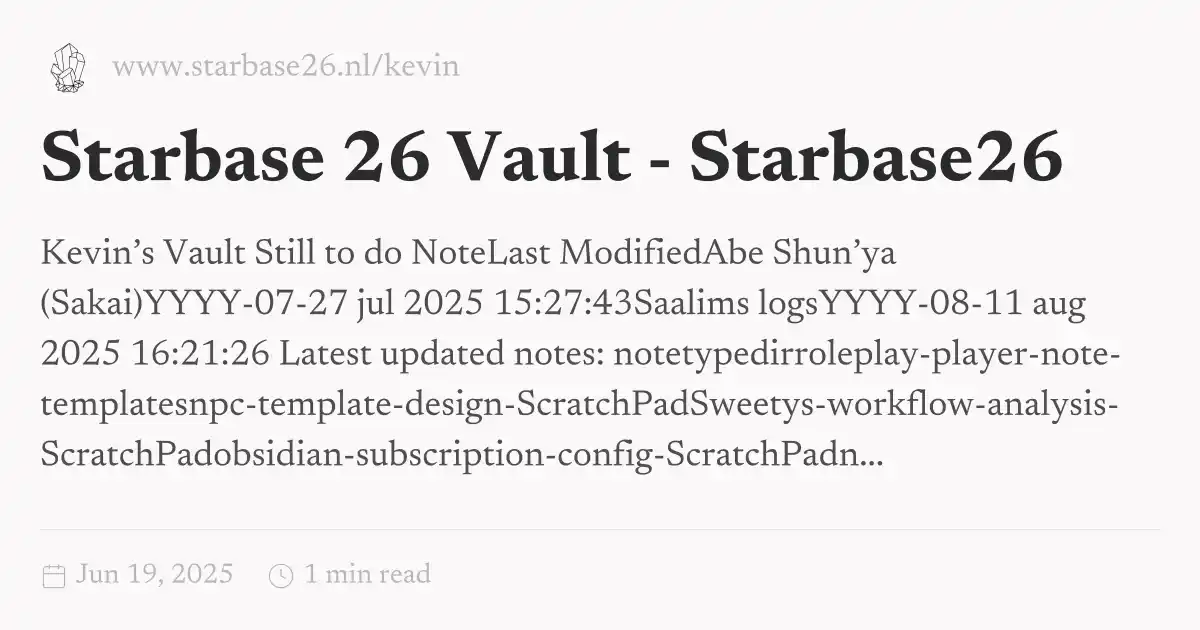
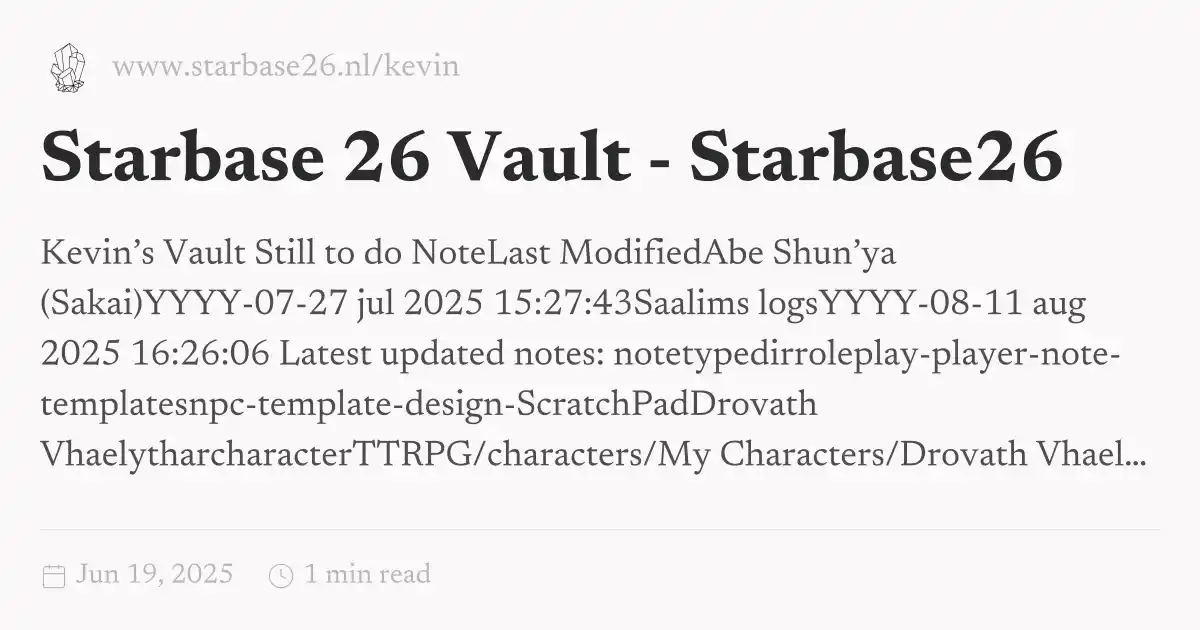
Quartz sync: Aug 11, 2025, 4:30 PM

Changed region(s): [[0.0308, 0.6937, 0.9558, 0.754], [0.555, 0.6032, 0.925, 0.6635], [0.1542, 0.5429, 0.2158, 0.573]]

diff --git a/public/ScratchPad/Sweetys-workflow-analysis.html b/public/ScratchPad/Sweetys-workflow-analysis.html
@@ -177,22 +177,12 @@ Lkajsdkljflkjaslkajsdf. Lkajsldkjflkjasdf</p>
 </ol>
 <p>Checkboxlijstjes:</p>
 <ul class="contains-task-list">
-<li class="task-list-item">
-<p><input type="checkbox" disabled/> Optie 1</p>
-</li>
-<li class="task-list-item">
-<p><input type="checkbox" disabled/> Optie 2</p>
-</li>
-<li class="task-list-item">
-<p><input type="checkbox" checked disabled/> Optie 3</p>
-</li>
-<li>
-<p>[ ]</p>
-</li>
-<li>
-<p>[ ]</p>
-</li>
-</ul></article><hr/><div class="page-footer"></div></div><div class="right sidebar"><div class="graph"><h3>Graph View</h3><div class="graph-outer"><div class="graph-container" data-cfg="{&quot;drag&quot;:true,&quot;zoom&quot;:true,&quot;depth&quot;:1,&quot;scale&quot;:1.1,&quot;repelForce&quot;:0.5,&quot;centerForce&quot;:0.3,&quot;linkDistance&quot;:30,&quot;fontSize&quot;:0.6,&quot;opacityScale&quot;:1,&quot;showTags&quot;:true,&quot;removeTags&quot;:[],&quot;focusOnHover&quot;:false,&quot;enableRadial&quot;:false}"></div><button class="global-graph-icon" aria-label="Global Graph"><svg version="1.1" xmlns="http://www.w3.org/2000/svg" xmlns:xlink="http://www.w3.org/1999/xlink" x="0px" y="0px" viewBox="0 0 55 55" fill="currentColor" xml:space="preserve"><path d="M49,0c-3.309,0-6,2.691-6,6c0,1.035,0.263,2.009,0.726,2.86l-9.829,9.829C32.542,17.634,30.846,17,29,17
+<li class="task-list-item"><input type="checkbox" disabled/> Optie 1</li>
+<li class="task-list-item"><input type="checkbox" checked disabled/> Optie 2</li>
+<li class="task-list-item"><input type="checkbox" checked disabled/> Optie 3</li>
+</ul>
+<p>Ik ben <strong>vet</strong> gedrukt</p>
+<p>Ik ben een quote</p></article><hr/><div class="page-footer"></div></div><div class="right sidebar"><div class="graph"><h3>Graph View</h3><div class="graph-outer"><div class="graph-container" data-cfg="{&quot;drag&quot;:true,&quot;zoom&quot;:true,&quot;depth&quot;:1,&quot;scale&quot;:1.1,&quot;repelForce&quot;:0.5,&quot;centerForce&quot;:0.3,&quot;linkDistance&quot;:30,&quot;fontSize&quot;:0.6,&quot;opacityScale&quot;:1,&quot;showTags&quot;:true,&quot;removeTags&quot;:[],&quot;focusOnHover&quot;:false,&quot;enableRadial&quot;:false}"></div><button class="global-graph-icon" aria-label="Global Graph"><svg version="1.1" xmlns="http://www.w3.org/2000/svg" xmlns:xlink="http://www.w3.org/1999/xlink" x="0px" y="0px" viewBox="0 0 55 55" fill="currentColor" xml:space="preserve"><path d="M49,0c-3.309,0-6,2.691-6,6c0,1.035,0.263,2.009,0.726,2.86l-9.829,9.829C32.542,17.634,30.846,17,29,17
                 s-3.542,0.634-4.898,1.688l-7.669-7.669C16.785,10.424,17,9.74,17,9c0-2.206-1.794-4-4-4S9,6.794,9,9s1.794,4,4,4
                 c0.74,0,1.424-0.215,2.019-0.567l7.669,7.669C21.634,21.458,21,23.154,21,25s0.634,3.542,1.688,4.897L10.024,42.562
                 C8.958,41.595,7.549,41,6,41c-3.309,0-6,2.691-6,6s2.691,6,6,6s6-2.691,6-6c0-1.035-0.263-2.009-0.726-2.86l12.829-12.829

diff --git a/public/index.html b/public/index.html
@@ -1,5 +1,5 @@
 <!DOCTYPE html>
-<html lang="en"><head><title>Starbase 26 Vault - Starbase26</title><meta charset="utf-8"/><link rel="preconnect" href="https://fonts.googleapis.com"/><link rel="preconnect" href="https://fonts.gstatic.com"/><link rel="stylesheet" href="https://fonts.googleapis.com/css2?family=Newsreader:wght@400;700&amp;family=Newsreader:ital,wght@0,400;0,600;1,400;1,600&amp;family=Anonymous Pro:wght@400;600&amp;display=swap"/><link rel="preconnect" href="https://cdnjs.cloudflare.com" crossorigin="anonymous"/><meta name="viewport" content="width=device-width, initial-scale=1.0"/><meta name="og:site_name" content="The Vault"/><meta property="og:title" content="Starbase 26 Vault - Starbase26"/><meta property="og:type" content="website"/><meta name="twitter:card" content="summary_large_image"/><meta name="twitter:title" content="Starbase 26 Vault - Starbase26"/><meta name="twitter:description" content="Kevin’s Vault Still to do NoteLast ModifiedAbe Shun’ya (Sakai)YYYY-07-27 jul 2025 15:27:43Saalims logsYYYY-08-11 aug 2025 16:21:26 Latest updated notes: notetypedirroleplay-player-note-templatesnpc-template-design-ScratchPadSweetys-workflow-analysis-ScratchPadobsidian-subscription-config-ScratchPadn..."/><meta property="og:description" content="Kevin’s Vault Still to do NoteLast ModifiedAbe Shun’ya (Sakai)YYYY-07-27 jul 2025 15:27:43Saalims logsYYYY-08-11 aug 2025 16:21:26 Latest updated notes: notetypedirroleplay-player-note-templatesnpc-template-design-ScratchPadSweetys-workflow-analysis-ScratchPadobsidian-subscription-config-ScratchPadn..."/><meta property="og:image:alt" content="Kevin’s Vault Still to do NoteLast ModifiedAbe Shun’ya (Sakai)YYYY-07-27 jul 2025 15:27:43Saalims logsYYYY-08-11 aug 2025 16:21:26 Latest updated notes: notetypedirroleplay-player-note-templatesnpc-template-design-ScratchPadSweetys-workflow-analysis-ScratchPadobsidian-subscription-config-ScratchPadn..."/><meta property="twitter:domain" content="www.starbase26.nl/kevin"/><meta property="og:url" content="https://www.starbase26.nl/kevin/index"/><meta property="twitter:url" content="https://www.starbase26.nl/kevin/index"/><link rel="icon" href="./static/icon.png"/><meta name="description" content="Kevin’s Vault Still to do NoteLast ModifiedAbe Shun’ya (Sakai)YYYY-07-27 jul 2025 15:27:43Saalims logsYYYY-08-11 aug 2025 16:21:26 Latest updated notes: notetypedirroleplay-player-note-templatesnpc-template-design-ScratchPadSweetys-workflow-analysis-ScratchPadobsidian-subscription-config-ScratchPadn..."/><meta name="generator" content="Quartz"/><link href="./index.css" rel="stylesheet" type="text/css" spa-preserve/><style>.expand-button {
+<html lang="en"><head><title>Starbase 26 Vault - Starbase26</title><meta charset="utf-8"/><link rel="preconnect" href="https://fonts.googleapis.com"/><link rel="preconnect" href="https://fonts.gstatic.com"/><link rel="stylesheet" href="https://fonts.googleapis.com/css2?family=Newsreader:wght@400;700&amp;family=Newsreader:ital,wght@0,400;0,600;1,400;1,600&amp;family=Anonymous Pro:wght@400;600&amp;display=swap"/><link rel="preconnect" href="https://cdnjs.cloudflare.com" crossorigin="anonymous"/><meta name="viewport" content="width=device-width, initial-scale=1.0"/><meta name="og:site_name" content="The Vault"/><meta property="og:title" content="Starbase 26 Vault - Starbase26"/><meta property="og:type" content="website"/><meta name="twitter:card" content="summary_large_image"/><meta name="twitter:title" content="Starbase 26 Vault - Starbase26"/><meta name="twitter:description" content="Kevin’s Vault Still to do NoteLast ModifiedAbe Shun’ya (Sakai)YYYY-07-27 jul 2025 15:27:43Saalims logsYYYY-08-11 aug 2025 16:26:06 Latest updated notes: notetypedirroleplay-player-note-templatesnpc-template-design-ScratchPadDrovath VhaelytharcharacterTTRPG/characters/My Characters/Drovath Vhaelythar..."/><meta property="og:description" content="Kevin’s Vault Still to do NoteLast ModifiedAbe Shun’ya (Sakai)YYYY-07-27 jul 2025 15:27:43Saalims logsYYYY-08-11 aug 2025 16:26:06 Latest updated notes: notetypedirroleplay-player-note-templatesnpc-template-design-ScratchPadDrovath VhaelytharcharacterTTRPG/characters/My Characters/Drovath Vhaelythar..."/><meta property="og:image:alt" content="Kevin’s Vault Still to do NoteLast ModifiedAbe Shun’ya (Sakai)YYYY-07-27 jul 2025 15:27:43Saalims logsYYYY-08-11 aug 2025 16:26:06 Latest updated notes: notetypedirroleplay-player-note-templatesnpc-template-design-ScratchPadDrovath VhaelytharcharacterTTRPG/characters/My Characters/Drovath Vhaelythar..."/><meta property="twitter:domain" content="www.starbase26.nl/kevin"/><meta property="og:url" content="https://www.starbase26.nl/kevin/index"/><meta property="twitter:url" content="https://www.starbase26.nl/kevin/index"/><link rel="icon" href="./static/icon.png"/><meta name="description" content="Kevin’s Vault Still to do NoteLast ModifiedAbe Shun’ya (Sakai)YYYY-07-27 jul 2025 15:27:43Saalims logsYYYY-08-11 aug 2025 16:26:06 Latest updated notes: notetypedirroleplay-player-note-templatesnpc-template-design-ScratchPadDrovath VhaelytharcharacterTTRPG/characters/My Characters/Drovath Vhaelythar..."/><meta name="generator" content="Quartz"/><link href="./index.css" rel="stylesheet" type="text/css" spa-preserve/><style>.expand-button {
   position: absolute;
   display: flex;
   float: right;
@@ -137,7 +137,7 @@ pre:hover > .expand-button {
 
 
 
-<div class="table-container"><table><thead><tr><th>Note</th><th>Last Modified</th></tr></thead><tbody><tr><td><a href="./TTRPG/characters/My-Characters/Abe-Shun'ya/Abe-Shun'ya-(Sakai)" class="internal alias" data-slug="TTRPG/characters/My-Characters/Abe-Shun'ya/Abe-Shun'ya-(Sakai)">Abe Shun’ya (Sakai)</a></td><td>YYYY-07-27 jul 2025 15:27:43</td></tr><tr><td><a href="./TTRPG/characters/My-Characters/Saalim-abu-Razin/Saalims-logs" class="internal alias" data-slug="TTRPG/characters/My-Characters/Saalim-abu-Razin/Saalims-logs">Saalims logs</a></td><td>YYYY-08-11 aug 2025 16:21:26</td></tr></tbody></table></div>
+<div class="table-container"><table><thead><tr><th>Note</th><th>Last Modified</th></tr></thead><tbody><tr><td><a href="./TTRPG/characters/My-Characters/Abe-Shun'ya/Abe-Shun'ya-(Sakai)" class="internal alias" data-slug="TTRPG/characters/My-Characters/Abe-Shun'ya/Abe-Shun'ya-(Sakai)">Abe Shun’ya (Sakai)</a></td><td>YYYY-07-27 jul 2025 15:27:43</td></tr><tr><td><a href="./TTRPG/characters/My-Characters/Saalim-abu-Razin/Saalims-logs" class="internal alias" data-slug="TTRPG/characters/My-Characters/Saalim-abu-Razin/Saalims-logs">Saalims logs</a></td><td>YYYY-08-11 aug 2025 16:26:06</td></tr></tbody></table></div>
 
 <hr/>
 <h2 id="latest-updated-notes">Latest updated notes:<a role="anchor" aria-hidden="true" tabindex="-1" data-no-popover="true" href="#latest-updated-notes" class="internal"><svg width="18" height="18" viewBox="0 0 24 24" fill="none" stroke="currentColor" stroke-width="2" stroke-linecap="round" stroke-linejoin="round"><path d="M10 13a5 5 0 0 0 7.54.54l3-3a5 5 0 0 0-7.07-7.07l-1.72 1.71"></path><path d="M14 11a5 5 0 0 0-7.54-.54l-3 3a5 5 0 0 0 7.07 7.07l1.71-1.71"></path></svg></a></h2>
@@ -203,7 +203,7 @@ pre:hover > .expand-button {
 
 
 
-<div class="table-container"><table><thead><tr><th>note</th><th>type</th><th>dir</th></tr></thead><tbody><tr><td><a href="./roleplay-player-note" class="internal" data-slug="roleplay-player-note">roleplay-player-note</a></td><td>-</td><td>templates</td></tr><tr><td><a href="./ScratchPad/npc-template-design" class="internal" data-slug="ScratchPad/npc-template-design">npc-template-design</a></td><td>-</td><td>ScratchPad</td></tr><tr><td><a href="./ScratchPad/Sweetys-workflow-analysis" class="internal" data-slug="ScratchPad/Sweetys-workflow-analysis">Sweetys-workflow-analysis</a></td><td>-</td><td>ScratchPad</td></tr><tr><td><a href="./ScratchPad/obsidian-subscription-config" class="internal" data-slug="ScratchPad/obsidian-subscription-config">obsidian-subscription-config</a></td><td>-</td><td>ScratchPad</td></tr><tr><td><a href="./Personal/netwerk/netwerk-beleid" class="internal" data-slug="Personal/netwerk/netwerk-beleid">netwerk-beleid</a></td><td>-</td><td>Personal/netwerk</td></tr><tr><td><a href="./TTRPG/characters/My-Characters/Drovath-Vhaelythar/Drovath-Vhaelythar" class="internal alias" data-slug="TTRPG/characters/My-Characters/Drovath-Vhaelythar/Drovath-Vhaelythar">Drovath Vhaelythar</a></td><td>character</td><td>TTRPG/characters/My Characters/Drovath Vhaelythar</td></tr><tr><td><a href="./TTRPG/characters/My-Characters/Drovath-Vhaelythar/charsheet-drovath-vhaelythar" class="internal" data-slug="TTRPG/characters/My-Characters/Drovath-Vhaelythar/charsheet-drovath-vhaelythar">charsheet-drovath-vhaelythar</a></td><td>chararacter sheet notes</td><td>TTRPG/characters/My Characters/Drovath Vhaelythar</td></tr><tr><td><a href="./TTRPG/rpg-todo-list" class="internal" data-slug="TTRPG/rpg-todo-list">rpg-todo-list</a></td><td>-</td><td>TTRPG</td></tr><tr><td><a href="./TTRPG/worlds/kurvalyn/Kurvalyn" class="internal" data-slug="TTRPG/worlds/kurvalyn/Kurvalyn">Kurvalyn</a></td><td>world</td><td>TTRPG/worlds/kurvalyn</td></tr><tr><td><a href="./roleplay-new-country" class="internal" data-slug="roleplay-new-country">roleplay-new-country</a></td><td>world</td><td>templates</td></tr></tbody></table></div>
+<div class="table-container"><table><thead><tr><th>note</th><th>type</th><th>dir</th></tr></thead><tbody><tr><td><a href="./roleplay-player-note" class="internal" data-slug="roleplay-player-note">roleplay-player-note</a></td><td>-</td><td>templates</td></tr><tr><td><a href="./ScratchPad/npc-template-design" class="internal" data-slug="ScratchPad/npc-template-design">npc-template-design</a></td><td>-</td><td>ScratchPad</td></tr><tr><td><a href="./TTRPG/characters/My-Characters/Drovath-Vhaelythar/Drovath-Vhaelythar" class="internal alias" data-slug="TTRPG/characters/My-Characters/Drovath-Vhaelythar/Drovath-Vhaelythar">Drovath Vhaelythar</a></td><td>character</td><td>TTRPG/characters/My Characters/Drovath Vhaelythar</td></tr><tr><td><a href="./ScratchPad/Sweetys-workflow-analysis" class="internal" data-slug="ScratchPad/Sweetys-workflow-analysis">Sweetys-workflow-analysis</a></td><td>-</td><td>ScratchPad</td></tr><tr><td><a href="./ScratchPad/obsidian-subscription-config" class="internal" data-slug="ScratchPad/obsidian-subscription-config">obsidian-subscription-config</a></td><td>-</td><td>ScratchPad</td></tr><tr><td><a href="./Personal/netwerk/netwerk-beleid" class="internal" data-slug="Personal/netwerk/netwerk-beleid">netwerk-beleid</a></td><td>-</td><td>Personal/netwerk</td></tr><tr><td><a href="./TTRPG/characters/My-Characters/Drovath-Vhaelythar/charsheet-drovath-vhaelythar" class="internal" data-slug="TTRPG/characters/My-Characters/Drovath-Vhaelythar/charsheet-drovath-vhaelythar">charsheet-drovath-vhaelythar</a></td><td>chararacter sheet notes</td><td>TTRPG/characters/My Characters/Drovath Vhaelythar</td></tr><tr><td><a href="./TTRPG/rpg-todo-list" class="internal" data-slug="TTRPG/rpg-todo-list">rpg-todo-list</a></td><td>-</td><td>TTRPG</td></tr><tr><td><a href="./TTRPG/worlds/kurvalyn/Kurvalyn" class="internal" data-slug="TTRPG/worlds/kurvalyn/Kurvalyn">Kurvalyn</a></td><td>world</td><td>TTRPG/worlds/kurvalyn</td></tr><tr><td><a href="./roleplay-new-country" class="internal" data-slug="roleplay-new-country">roleplay-new-country</a></td><td>world</td><td>templates</td></tr></tbody></table></div>
 </article><hr/><div class="page-footer"></div></div><div class="right sidebar"><div class="graph"><h3>Graph View</h3><div class="graph-outer"><div class="graph-container" data-cfg="{&quot;drag&quot;:true,&quot;zoom&quot;:true,&quot;depth&quot;:1,&quot;scale&quot;:1.1,&quot;repelForce&quot;:0.5,&quot;centerForce&quot;:0.3,&quot;linkDistance&quot;:30,&quot;fontSize&quot;:0.6,&quot;opacityScale&quot;:1,&quot;showTags&quot;:true,&quot;removeTags&quot;:[],&quot;focusOnHover&quot;:false,&quot;enableRadial&quot;:false}"></div><button class="global-graph-icon" aria-label="Global Graph"><svg version="1.1" xmlns="http://www.w3.org/2000/svg" xmlns:xlink="http://www.w3.org/1999/xlink" x="0px" y="0px" viewBox="0 0 55 55" fill="currentColor" xml:space="preserve"><path d="M49,0c-3.309,0-6,2.691-6,6c0,1.035,0.263,2.009,0.726,2.86l-9.829,9.829C32.542,17.634,30.846,17,29,17
                 s-3.542,0.634-4.898,1.688l-7.669-7.669C16.785,10.424,17,9.74,17,9c0-2.206-1.794-4-4-4S9,6.794,9,9s1.794,4,4,4
                 c0.74,0,1.424-0.215,2.019-0.567l7.669,7.669C21.634,21.458,21,23.154,21,25s0.634,3.542,1.688,4.897L10.024,42.562

diff --git a/public/Personal/BluRays/index.html b/public/Personal/BluRays/index.html
@@ -116,6 +116,6 @@ pre:hover > .expand-button {
   padding: 0 12px;
   font-size: 14px;
 }
[2 lines of base64/hex data omitted]
 </script><script type="module">function f(i,e){if(!i)return;function r(o){o.target===this&&(o.preventDefault(),o.stopPropagation(),e())}function t(o){o.key.startsWith("Esc")&&(o.preventDefault(),e())}i?.addEventListener("click",r),window.addCleanup(()=>i?.removeEventListener("click",r)),document.addEventListener("keydown",t),window.addCleanup(()=>document.removeEventListener("keydown",t))}function y(i){for(;i.firstChild;)i.removeChild(i.firstChild)}var h=class{constructor(e,r){this.container=e;this.content=r;this.setupEventListeners(),this.setupNavigationControls(),this.resetTransform()}isDragging=!1;startPan={x:0,y:0};currentPan={x:0,y:0};scale=1;MIN_SCALE=.5;MAX_SCALE=3;cleanups=[];setupEventListeners(){let e=this.onMouseDown.bind(this),r=this.onMouseMove.bind(this),t=this.onMouseUp.bind(this),o=this.resetTransform.bind(this);this.container.addEventListener("mousedown",e),document.addEventListener("mousemove",r),document.addEventListener("mouseup",t),window.addEventListener("resize",o),this.cleanups.push(()=>this.container.removeEventListener("mousedown",e),()=>document.removeEventListener("mousemove",r),()=>document.removeEventListener("mouseup",t),()=>window.removeEventListener("resize",o))}cleanup(){for(let e of this.cleanups)e()}setupNavigationControls(){let e=document.createElement("div");e.className="mermaid-controls";let r=this.createButton("+",()=>this.zoom(.1)),t=this.createButton("-",()=>this.zoom(-.1)),o=this.createButton("Reset",()=>this.resetTransform());e.appendChild(t),e.appendChild(o),e.appendChild(r),this.container.appendChild(e)}createButton(e,r){let t=document.createElement("button");return t.textContent=e,t.className="mermaid-control-button",t.addEventListener("click",r),window.addCleanup(()=>t.removeEventListener("click",r)),t}onMouseDown(e){e.button===0&&(this.isDragging=!0,this.startPan={x:e.clientX-this.currentPan.x,y:e.clientY-this.currentPan.y},this.container.style.cursor="grabbing")}onMouseMove(e){this.isDragging&&(e.preventDefault(),this.currentPan={x:e.clientX-this.startPan.x,y:e.clientY-this.startPan.y},this.updateTransform())}onMouseUp(){this.isDragging=!1,this.container.style.cursor="grab"}zoom(e){let r=Math.min(Math.max(this.scale+e,this.MIN_SCALE),this.MAX_SCALE),t=this.content.getBoundingClientRect(),o=t.width/2,n=t.height/2,c=r-this.scale;this.currentPan.x-=o*c,this.currentPan.y-=n*c,this.scale=r,this.updateTransform()}updateTransform(){this.content.style.transform=`translate(${this.currentPan.x}px, ${this.currentPan.y}px) scale(${this.scale})`}resetTransform(){this.scale=1;let e=this.content.querySelector("svg");this.currentPan={x:e.getBoundingClientRect().width/2,y:e.getBoundingClientRect().height/2},this.updateTransform()}},C=["--secondary","--tertiary","--gray","--light","--lightgray","--highlight","--dark","--darkgray","--codeFont"],E;document.addEventListener("nav",async()=>{let e=document.querySelector(".center").querySelectorAll("code.mermaid");if(e.length===0)return;E||=await import("https://cdnjs.cloudflare.com/ajax/libs/mermaid/11.4.0/mermaid.esm.min.mjs");let r=E.default,t=new WeakMap;for(let n of e)t.set(n,n.innerText);async function o(){for(let s of e){s.removeAttribute("data-processed");let a=t.get(s);a&&(s.innerHTML=a)}let n=C.reduce((s,a)=>(s[a]=window.getComputedStyle(document.documentElement).getPropertyValue(a),s),{}),c=document.documentElement.getAttribute("saved-theme")==="dark";r.initialize({startOnLoad:!1,securityLevel:"loose",theme:c?"dark":"base",themeVariables:{fontFamily:n["--codeFont"],primaryColor:n["--light"],primaryTextColor:n["--darkgray"],primaryBorderColor:n["--tertiary"],lineColor:n["--darkgray"],secondaryColor:n["--secondary"],tertiaryColor:n["--tertiary"],clusterBkg:n["--light"],edgeLabelBackground:n["--highlight"]}}),await r.run({nodes:e})}await o(),document.addEventListener("themechange",o),window.addCleanup(()=>document.removeEventListener("themechange",o));for(let n=0;n<e.length;n++){let v=function(){let g=l.querySelector("#mermaid-space"),m=l.querySelector(".mermaid-content");if(!m)return;y(m);let w=c.querySelector("svg").cloneNode(!0);m.appendChild(w),l.classList.add("active"),g.style.cursor="grab",u=new h(g,m)},M=function(){l.classList.remove("active"),u?.cleanup(),u=null},c=e[n],s=c.parentElement,a=s.querySelector(".clipboard-button"),d=s.querySelector(".expand-button"),p=window.getComputedStyle(a),L=a.offsetWidth+parseFloat(p.marginLeft||"0")+parseFloat(p.marginRight||"0");d.style.right=`calc(${L}px + 0.3rem)`,s.prepend(d);let l=s.querySelector("#mermaid-container");if(!l)return;let u=null;d.addEventListener("click",v),f(l,M),window.addCleanup(()=>{u?.cleanup(),d.removeEventListener("click",v)})}});
 </script><script src="https://cdn.jsdelivr.net/npm/katex@0.16.11/dist/contrib/copy-tex.min.js" type="application/javascript"></script><script src="../../postscript.js" type="module"></script></html>

diff --git a/public/Personal/BluRays/my-blurays.html b/public/Personal/BluRays/my-blurays.html
@@ -116,7 +116,7 @@ pre:hover > .expand-button {
   padding: 0 12px;
   font-size: 14px;
 }
[2 lines of base64/hex data omitted]
                 s-3.542,0.634-4.898,1.688l-7.669-7.669C16.785,10.424,17,9.74,17,9c0-2.206-1.794-4-4-4S9,6.794,9,9s1.794,4,4,4
                 c0.74,0,1.424-0.215,2.019-0.567l7.669,7.669C21.634,21.458,21,23.154,21,25s0.634,3.542,1.688,4.897L10.024,42.562
                 C8.958,41.595,7.549,41,6,41c-3.309,0-6,2.691-6,6s2.691,6,6,6s6-2.691,6-6c0-1.035-0.263-2.009-0.726-2.86l12.829-12.829

diff --git a/public/Personal/index.html b/public/Personal/index.html
@@ -116,6 +116,6 @@ pre:hover > .expand-button {
   padding: 0 12px;
   font-size: 14px;
 }
[2 lines of base64/hex data omitted]
 </script><script type="module">function f(i,e){if(!i)return;function r(o){o.target===this&&(o.preventDefault(),o.stopPropagation(),e())}function t(o){o.key.startsWith("Esc")&&(o.preventDefault(),e())}i?.addEventListener("click",r),window.addCleanup(()=>i?.removeEventListener("click",r)),document.addEventListener("keydown",t),window.addCleanup(()=>document.removeEventListener("keydown",t))}function y(i){for(;i.firstChild;)i.removeChild(i.firstChild)}var h=class{constructor(e,r){this.container=e;this.content=r;this.setupEventListeners(),this.setupNavigationControls(),this.resetTransform()}isDragging=!1;startPan={x:0,y:0};currentPan={x:0,y:0};scale=1;MIN_SCALE=.5;MAX_SCALE=3;cleanups=[];setupEventListeners(){let e=this.onMouseDown.bind(this),r=this.onMouseMove.bind(this),t=this.onMouseUp.bind(this),o=this.resetTransform.bind(this);this.container.addEventListener("mousedown",e),document.addEventListener("mousemove",r),document.addEventListener("mouseup",t),window.addEventListener("resize",o),this.cleanups.push(()=>this.container.removeEventListener("mousedown",e),()=>document.removeEventListener("mousemove",r),()=>document.removeEventListener("mouseup",t),()=>window.removeEventListener("resize",o))}cleanup(){for(let e of this.cleanups)e()}setupNavigationControls(){let e=document.createElement("div");e.className="mermaid-controls";let r=this.createButton("+",()=>this.zoom(.1)),t=this.createButton("-",()=>this.zoom(-.1)),o=this.createButton("Reset",()=>this.resetTransform());e.appendChild(t),e.appendChild(o),e.appendChild(r),this.container.appendChild(e)}createButton(e,r){let t=document.createElement("button");return t.textContent=e,t.className="mermaid-control-button",t.addEventListener("click",r),window.addCleanup(()=>t.removeEventListener("click",r)),t}onMouseDown(e){e.button===0&&(this.isDragging=!0,this.startPan={x:e.clientX-this.currentPan.x,y:e.clientY-this.currentPan.y},this.container.style.cursor="grabbing")}onMouseMove(e){this.isDragging&&(e.preventDefault(),this.currentPan={x:e.clientX-this.startPan.x,y:e.clientY-this.startPan.y},this.updateTransform())}onMouseUp(){this.isDragging=!1,this.container.style.cursor="grab"}zoom(e){let r=Math.min(Math.max(this.scale+e,this.MIN_SCALE),this.MAX_SCALE),t=this.content.getBoundingClientRect(),o=t.width/2,n=t.height/2,c=r-this.scale;this.currentPan.x-=o*c,this.currentPan.y-=n*c,this.scale=r,this.updateTransform()}updateTransform(){this.content.style.transform=`translate(${this.currentPan.x}px, ${this.currentPan.y}px) scale(${this.scale})`}resetTransform(){this.scale=1;let e=this.content.querySelector("svg");this.currentPan={x:e.getBoundingClientRect().width/2,y:e.getBoundingClientRect().height/2},this.updateTransform()}},C=["--secondary","--tertiary","--gray","--light","--lightgray","--highlight","--dark","--darkgray","--codeFont"],E;document.addEventListener("nav",async()=>{let e=document.querySelector(".center").querySelectorAll("code.mermaid");if(e.length===0)return;E||=await import("https://cdnjs.cloudflare.com/ajax/libs/mermaid/11.4.0/mermaid.esm.min.mjs");let r=E.default,t=new WeakMap;for(let n of e)t.set(n,n.innerText);async function o(){for(let s of e){s.removeAttribute("data-processed");let a=t.get(s);a&&(s.innerHTML=a)}let n=C.reduce((s,a)=>(s[a]=window.getComputedStyle(document.documentElement).getPropertyValue(a),s),{}),c=document.documentElement.getAttribute("saved-theme")==="dark";r.initialize({startOnLoad:!1,securityLevel:"loose",theme:c?"dark":"base",themeVariables:{fontFamily:n["--codeFont"],primaryColor:n["--light"],primaryTextColor:n["--darkgray"],primaryBorderColor:n["--tertiary"],lineColor:n["--darkgray"],secondaryColor:n["--secondary"],tertiaryColor:n["--tertiary"],clusterBkg:n["--light"],edgeLabelBackground:n["--highlight"]}}),await r.run({nodes:e})}await o(),document.addEventListener("themechange",o),window.addCleanup(()=>document.removeEventListener("themechange",o));for(let n=0;n<e.length;n++){let v=function(){let g=l.querySelector("#mermaid-space"),m=l.querySelector(".mermaid-content");if(!m)return;y(m);let w=c.querySelector("svg").cloneNode(!0);m.appendChild(w),l.classList.add("active"),g.style.cursor="grab",u=new h(g,m)},M=function(){l.classList.remove("active"),u?.cleanup(),u=null},c=e[n],s=c.parentElement,a=s.querySelector(".clipboard-button"),d=s.querySelector(".expand-button"),p=window.getComputedStyle(a),L=a.offsetWidth+parseFloat(p.marginLeft||"0")+parseFloat(p.marginRight||"0");d.style.right=`calc(${L}px + 0.3rem)`,s.prepend(d);let l=s.querySelector("#mermaid-container");if(!l)return;let u=null;d.addEventListener("click",v),f(l,M),window.addCleanup(()=>{u?.cleanup(),d.removeEventListener("click",v)})}});
 </script><script src="https://cdn.jsdelivr.net/npm/katex@0.16.11/dist/contrib/copy-tex.min.js" type="application/javascript"></script><script src="../postscript.js" type="module"></script></html>

diff --git a/public/ScratchPad/index.html b/public/ScratchPad/index.html
@@ -116,6 +116,6 @@ pre:hover > .expand-button {
   padding: 0 12px;
   font-size: 14px;
 }
[2 lines of base64/hex data omitted]
 </script><script type="module">function f(i,e){if(!i)return;function r(o){o.target===this&&(o.preventDefault(),o.stopPropagation(),e())}function t(o){o.key.startsWith("Esc")&&(o.preventDefault(),e())}i?.addEventListener("click",r),window.addCleanup(()=>i?.removeEventListener("click",r)),document.addEventListener("keydown",t),window.addCleanup(()=>document.removeEventListener("keydown",t))}function y(i){for(;i.firstChild;)i.removeChild(i.firstChild)}var h=class{constructor(e,r){this.container=e;this.content=r;this.setupEventListeners(),this.setupNavigationControls(),this.resetTransform()}isDragging=!1;startPan={x:0,y:0};currentPan={x:0,y:0};scale=1;MIN_SCALE=.5;MAX_SCALE=3;cleanups=[];setupEventListeners(){let e=this.onMouseDown.bind(this),r=this.onMouseMove.bind(this),t=this.onMouseUp.bind(this),o=this.resetTransform.bind(this);this.container.addEventListener("mousedown",e),document.addEventListener("mousemove",r),document.addEventListener("mouseup",t),window.addEventListener("resize",o),this.cleanups.push(()=>this.container.removeEventListener("mousedown",e),()=>document.removeEventListener("mousemove",r),()=>document.removeEventListener("mouseup",t),()=>window.removeEventListener("resize",o))}cleanup(){for(let e of this.cleanups)e()}setupNavigationControls(){let e=document.createElement("div");e.className="mermaid-controls";let r=this.createButton("+",()=>this.zoom(.1)),t=this.createButton("-",()=>this.zoom(-.1)),o=this.createButton("Reset",()=>this.resetTransform());e.appendChild(t),e.appendChild(o),e.appendChild(r),this.container.appendChild(e)}createButton(e,r){let t=document.createElement("button");return t.textContent=e,t.className="mermaid-control-button",t.addEventListener("click",r),window.addCleanup(()=>t.removeEventListener("click",r)),t}onMouseDown(e){e.button===0&&(this.isDragging=!0,this.startPan={x:e.clientX-this.currentPan.x,y:e.clientY-this.currentPan.y},this.container.style.cursor="grabbing")}onMouseMove(e){this.isDragging&&(e.preventDefault(),this.currentPan={x:e.clientX-this.startPan.x,y:e.clientY-this.startPan.y},this.updateTransform())}onMouseUp(){this.isDragging=!1,this.container.style.cursor="grab"}zoom(e){let r=Math.min(Math.max(this.scale+e,this.MIN_SCALE),this.MAX_SCALE),t=this.content.getBoundingClientRect(),o=t.width/2,n=t.height/2,c=r-this.scale;this.currentPan.x-=o*c,this.currentPan.y-=n*c,this.scale=r,this.updateTransform()}updateTransform(){this.content.style.transform=`translate(${this.currentPan.x}px, ${this.currentPan.y}px) scale(${this.scale})`}resetTransform(){this.scale=1;let e=this.content.querySelector("svg");this.currentPan={x:e.getBoundingClientRect().width/2,y:e.getBoundingClientRect().height/2},this.updateTransform()}},C=["--secondary","--tertiary","--gray","--light","--lightgray","--highlight","--dark","--darkgray","--codeFont"],E;document.addEventListener("nav",async()=>{let e=document.querySelector(".center").querySelectorAll("code.mermaid");if(e.length===0)return;E||=await import("https://cdnjs.cloudflare.com/ajax/libs/mermaid/11.4.0/mermaid.esm.min.mjs");let r=E.default,t=new WeakMap;for(let n of e)t.set(n,n.innerText);async function o(){for(let s of e){s.removeAttribute("data-processed");let a=t.get(s);a&&(s.innerHTML=a)}let n=C.reduce((s,a)=>(s[a]=window.getComputedStyle(document.documentElement).getPropertyValue(a),s),{}),c=document.documentElement.getAttribute("saved-theme")==="dark";r.initialize({startOnLoad:!1,securityLevel:"loose",theme:c?"dark":"base",themeVariables:{fontFamily:n["--codeFont"],primaryColor:n["--light"],primaryTextColor:n["--darkgray"],primaryBorderColor:n["--tertiary"],lineColor:n["--darkgray"],secondaryColor:n["--secondary"],tertiaryColor:n["--tertiary"],clusterBkg:n["--light"],edgeLabelBackground:n["--highlight"]}}),await r.run({nodes:e})}await o(),document.addEventListener("themechange",o),window.addCleanup(()=>document.removeEventListener("themechange",o));for(let n=0;n<e.length;n++){let v=function(){let g=l.querySelector("#mermaid-space"),m=l.querySelector(".mermaid-content");if(!m)return;y(m);let w=c.querySelector("svg").cloneNode(!0);m.appendChild(w),l.classList.add("active"),g.style.cursor="grab",u=new h(g,m)},M=function(){l.classList.remove("active"),u?.cleanup(),u=null},c=e[n],s=c.parentElement,a=s.querySelector(".clipboard-button"),d=s.querySelector(".expand-button"),p=window.getComputedStyle(a),L=a.offsetWidth+parseFloat(p.marginLeft||"0")+parseFloat(p.marginRight||"0");d.style.right=`calc(${L}px + 0.3rem)`,s.prepend(d);let l=s.querySelector("#mermaid-container");if(!l)return;let u=null;d.addEventListener("click",v),f(l,M),window.addCleanup(()=>{u?.cleanup(),d.removeEventListener("click",v)})}});
 </script><script src="https://cdn.jsdelivr.net/npm/katex@0.16.11/dist/contrib/copy-tex.min.js" type="application/javascript"></script><script src="../postscript.js" type="module"></script></html>

diff --git a/public/ScratchPad/narrative-structures.html b/public/ScratchPad/narrative-structures.html
@@ -116,7 +116,7 @@ pre:hover > .expand-button {
   padding: 0 12px;
   font-size: 14px;
 }
[2 lines of base64/hex data omitted]
 <h3 id="summary-table">Summary Table:<a role="anchor" aria-hidden="true" tabindex="-1" data-no-popover="true" href="#summary-table" class="internal"><svg width="18" height="18" viewBox="0 0 24 24" fill="none" stroke="currentColor" stroke-width="2" stroke-linecap="round" stroke-linejoin="round"><path d="M10 13a5 5 0 0 0 7.54.54l3-3a5 5 0 0 0-7.07-7.07l-1.72 1.71"></path><path d="M14 11a5 5 0 0 0-7.54-.54l-3 3a5 5 0 0 0 7.07 7.07l1.71-1.71"></path></svg></a></h3>
 
 

diff --git a/public/ScratchPad/npc-template-design.html b/public/ScratchPad/npc-template-design.html
@@ -116,7 +116,7 @@ pre:hover > .expand-button {
   padding: 0 12px;
   font-size: 14px;
 }
[2 lines of base64/hex data omitted]
 <h2 id="intro">Intro<a role="anchor" aria-hidden="true" tabindex="-1" data-no-popover="true" href="#intro" class="internal"><svg width="18" height="18" viewBox="0 0 24 24" fill="none" stroke="currentColor" stroke-width="2" stroke-linecap="round" stroke-linejoin="round"><path d="M10 13a5 5 0 0 0 7.54.54l3-3a5 5 0 0 0-7.07-7.07l-1.72 1.71"></path><path d="M14 11a5 5 0 0 0-7.54-.54l-3 3a5 5 0 0 0 7.07 7.07l1.71-1.71"></path></svg></a></h2>
 <p>Wat wil ik met mijn NPCs.</p>
 <p>Ik merk op dat veel mensen een oppervlakkige benadering hebben van NPCs terwijl wij een <em>living world</em> hebben met veel NPCs die regelmatig langskomen. Deze NPCs worden ook niet gereset na spelen en blijven een onderdeel uitmaken van de levens van onze <em>characters</em>.</p>

diff --git a/public/ScratchPad/warhammer-fantasy-roleplay-books-checklist.html b/public/ScratchPad/warhammer-fantasy-roleplay-books-checklist.html
@@ -116,7 +116,7 @@ pre:hover > .expand-button {
   padding: 0 12px;
   font-size: 14px;
 }
[2 lines of base64/hex data omitted]
 <h2 id="essentials">Essentials<a role="anchor" aria-hidden="true" tabindex="-1" data-no-popover="true" href="#essentials" class="internal"><svg width="18" height="18" viewBox="0 0 24 24" fill="none" stroke="currentColor" stroke-width="2" stroke-linecap="round" stroke-linejoin="round"><path d="M10 13a5 5 0 0 0 7.54.54l3-3a5 5 0 0 0-7.07-7.07l-1.72 1.71"></path><path d="M14 11a5 5 0 0 0-7.54-.54l-3 3a5 5 0 0 0 7.07 7.07l1.71-1.71"></path></svg></a></h2>
 <ul class="contains-task-list">
 <li class="task-list-item"><input type="checkbox" disabled/> Warhammer Fantasy Roleplay 4th Edition Rulebook

diff --git a/public/TTRPG/characters/My-Characters/Abe-Shun'ya/My-Chantry/Sakai's-Chantry-(WiP).html b/public/TTRPG/characters/My-Characters/Abe-Shun'ya/My-Chantry/Sakai's-Chantry-(WiP).html
@@ -116,7 +116,7 @@ pre:hover > .expand-button {
   padding: 0 12px;
   font-size: 14px;
 }
[2 lines of base64/hex data omitted]
 <p>Needs a better name</p>
 <h2 id="chatgpt-analysis-o3">ChatGPT Analysis (o3)<a role="anchor" aria-hidden="true" tabindex="-1" data-no-popover="true" href="#chatgpt-analysis-o3" class="internal"><svg width="18" height="18" viewBox="0 0 24 24" fill="none" stroke="currentColor" stroke-width="2" stroke-linecap="round" stroke-linejoin="round"><path d="M10 13a5 5 0 0 0 7.54.54l3-3a5 5 0 0 0-7.07-7.07l-1.72 1.71"></path><path d="M14 11a5 5 0 0 0-7.54-.54l-3 3a5 5 0 0 0 7.07 7.07l1.71-1.71"></path></svg></a></h2>
 <blockquote>

diff --git a/public/TTRPG/characters/My-Characters/Abe-Shun'ya/My-Chantry/index.html b/public/TTRPG/characters/My-Characters/Abe-Shun'ya/My-Chantry/index.html
@@ -116,6 +116,6 @@ pre:hover > .expand-button {
   padding: 0 12px;
   font-size: 14px;
 }
[2 lines of base64/hex data omitted]
 </script><script type="module">function f(i,e){if(!i)return;function r(o){o.target===this&&(o.preventDefault(),o.stopPropagation(),e())}function t(o){o.key.startsWith("Esc")&&(o.preventDefault(),e())}i?.addEventListener("click",r),window.addCleanup(()=>i?.removeEventListener("click",r)),document.addEventListener("keydown",t),window.addCleanup(()=>document.removeEventListener("keydown",t))}function y(i){for(;i.firstChild;)i.removeChild(i.firstChild)}var h=class{constructor(e,r){this.container=e;this.content=r;this.setupEventListeners(),this.setupNavigationControls(),this.resetTransform()}isDragging=!1;startPan={x:0,y:0};currentPan={x:0,y:0};scale=1;MIN_SCALE=.5;MAX_SCALE=3;cleanups=[];setupEventListeners(){let e=this.onMouseDown.bind(this),r=this.onMouseMove.bind(this),t=this.onMouseUp.bind(this),o=this.resetTransform.bind(this);this.container.addEventListener("mousedown",e),document.addEventListener("mousemove",r),document.addEventListener("mouseup",t),window.addEventListener("resize",o),this.cleanups.push(()=>this.container.removeEventListener("mousedown",e),()=>document.removeEventListener("mousemove",r),()=>document.removeEventListener("mouseup",t),()=>window.removeEventListener("resize",o))}cleanup(){for(let e of this.cleanups)e()}setupNavigationControls(){let e=document.createElement("div");e.className="mermaid-controls";let r=this.createButton("+",()=>this.zoom(.1)),t=this.createButton("-",()=>this.zoom(-.1)),o=this.createButton("Reset",()=>this.resetTransform());e.appendChild(t),e.appendChild(o),e.appendChild(r),this.container.appendChild(e)}createButton(e,r){let t=document.createElement("button");return t.textContent=e,t.className="mermaid-control-button",t.addEventListener("click",r),window.addCleanup(()=>t.removeEventListener("click",r)),t}onMouseDown(e){e.button===0&&(this.isDragging=!0,this.startPan={x:e.clientX-this.currentPan.x,y:e.clientY-this.currentPan.y},this.container.style.cursor="grabbing")}onMouseMove(e){this.isDragging&&(e.preventDefault(),this.currentPan={x:e.clientX-this.startPan.x,y:e.clientY-this.startPan.y},this.updateTransform())}onMouseUp(){this.isDragging=!1,this.container.style.cursor="grab"}zoom(e){let r=Math.min(Math.max(this.scale+e,this.MIN_SCALE),this.MAX_SCALE),t=this.content.getBoundingClientRect(),o=t.width/2,n=t.height/2,c=r-this.scale;this.currentPan.x-=o*c,this.currentPan.y-=n*c,this.scale=r,this.updateTransform()}updateTransform(){this.content.style.transform=`translate(${this.currentPan.x}px, ${this.currentPan.y}px) scale(${this.scale})`}resetTransform(){this.scale=1;let e=this.content.querySelector("svg");this.currentPan={x:e.getBoundingClientRect().width/2,y:e.getBoundingClientRect().height/2},this.updateTransform()}},C=["--secondary","--tertiary","--gray","--light","--lightgray","--highlight","--dark","--darkgray","--codeFont"],E;document.addEventListener("nav",async()=>{let e=document.querySelector(".center").querySelectorAll("code.mermaid");if(e.length===0)return;E||=await import("https://cdnjs.cloudflare.com/ajax/libs/mermaid/11.4.0/mermaid.esm.min.mjs");let r=E.default,t=new WeakMap;for(let n of e)t.set(n,n.innerText);async function o(){for(let s of e){s.removeAttribute("data-processed");let a=t.get(s);a&&(s.innerHTML=a)}let n=C.reduce((s,a)=>(s[a]=window.getComputedStyle(document.documentElement).getPropertyValue(a),s),{}),c=document.documentElement.getAttribute("saved-theme")==="dark";r.initialize({startOnLoad:!1,securityLevel:"loose",theme:c?"dark":"base",themeVariables:{fontFamily:n["--codeFont"],primaryColor:n["--light"],primaryTextColor:n["--darkgray"],primaryBorderColor:n["--tertiary"],lineColor:n["--darkgray"],secondaryColor:n["--secondary"],tertiaryColor:n["--tertiary"],clusterBkg:n["--light"],edgeLabelBackground:n["--highlight"]}}),await r.run({nodes:e})}await o(),document.addEventListener("themechange",o),window.addCleanup(()=>document.removeEventListener("themechange",o));for(let n=0;n<e.length;n++){let v=function(){let g=l.querySelector("#mermaid-space"),m=l.querySelector(".mermaid-content");if(!m)return;y(m);let w=c.querySelector("svg").cloneNode(!0);m.appendChild(w),l.classList.add("active"),g.style.cursor="grab",u=new h(g,m)},M=function(){l.classList.remove("active"),u?.cleanup(),u=null},c=e[n],s=c.parentElement,a=s.querySelector(".clipboard-button"),d=s.querySelector(".expand-button"),p=window.getComputedStyle(a),L=a.offsetWidth+parseFloat(p.marginLeft||"0")+parseFloat(p.marginRight||"0");d.style.right=`calc(${L}px + 0.3rem)`,s.prepend(d);let l=s.querySelector("#mermaid-container");if(!l)return;let u=null;d.addEventListener("click",v),f(l,M),window.addCleanup(()=>{u?.cleanup(),d.removeEventListener("click",v)})}});
 </script><script src="https://cdn.jsdelivr.net/npm/katex@0.16.11/dist/contrib/copy-tex.min.js" type="application/javascript"></script><script src="../../../../../postscript.js" type="module"></script></html>

diff --git a/public/TTRPG/characters/My-Characters/Abe-Shun'ya/New-vampire-character---creation-nottes.html b/public/TTRPG/characters/My-Characters/Abe-Shun'ya/New-vampire-character---creation-nottes.html
@@ -116,7 +116,7 @@ pre:hover > .expand-button {
   padding: 0 12px;
   font-size: 14px;
 }
[2 lines of base64/hex data omitted]
 <blockquote>
 <p>Information on this page is subject to change, As long as the information is not yet mentioned in the [INSERT CHARACTER NAME] document, it is not yet part of the character’s design.</p>
 </blockquote>